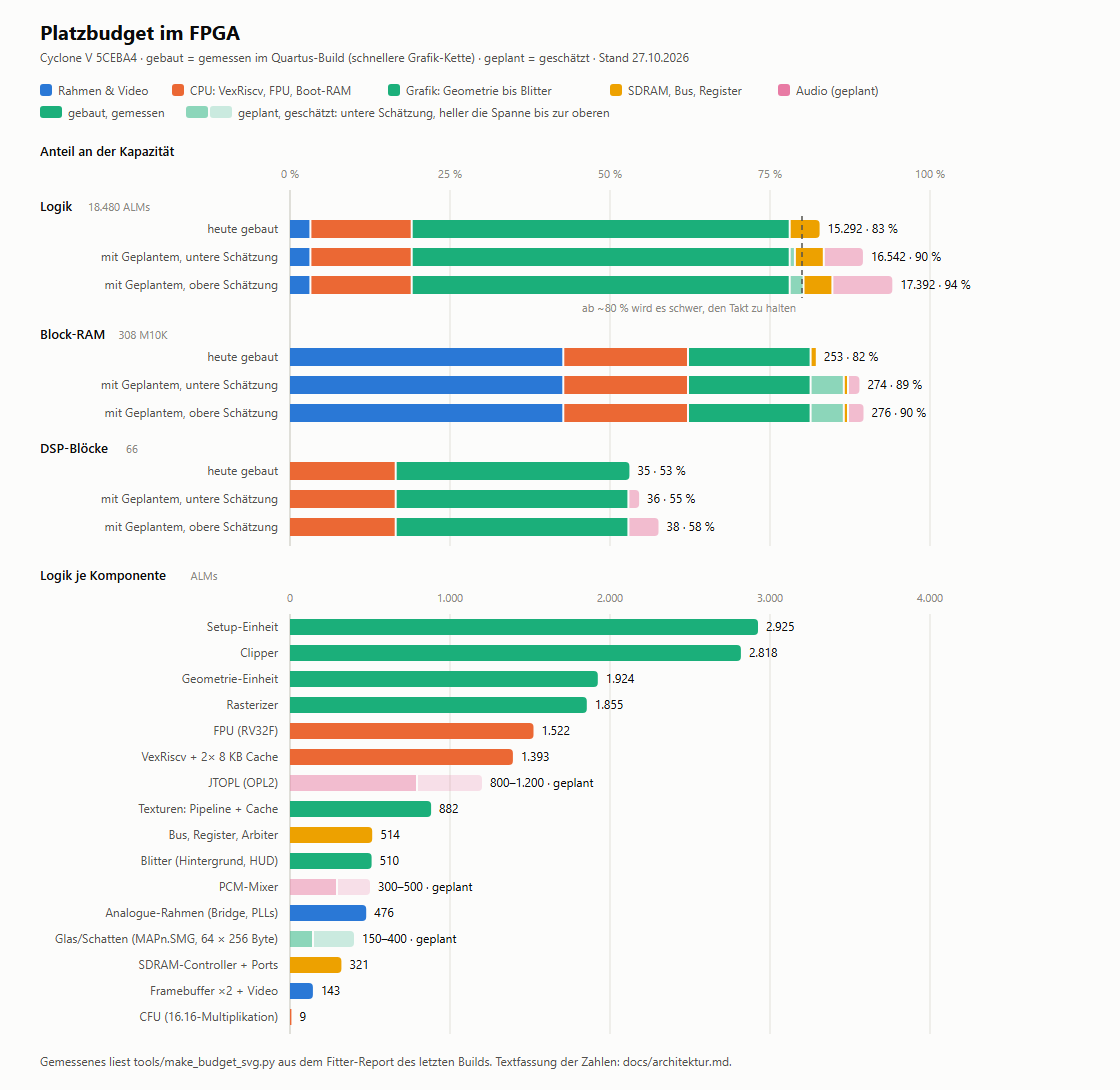
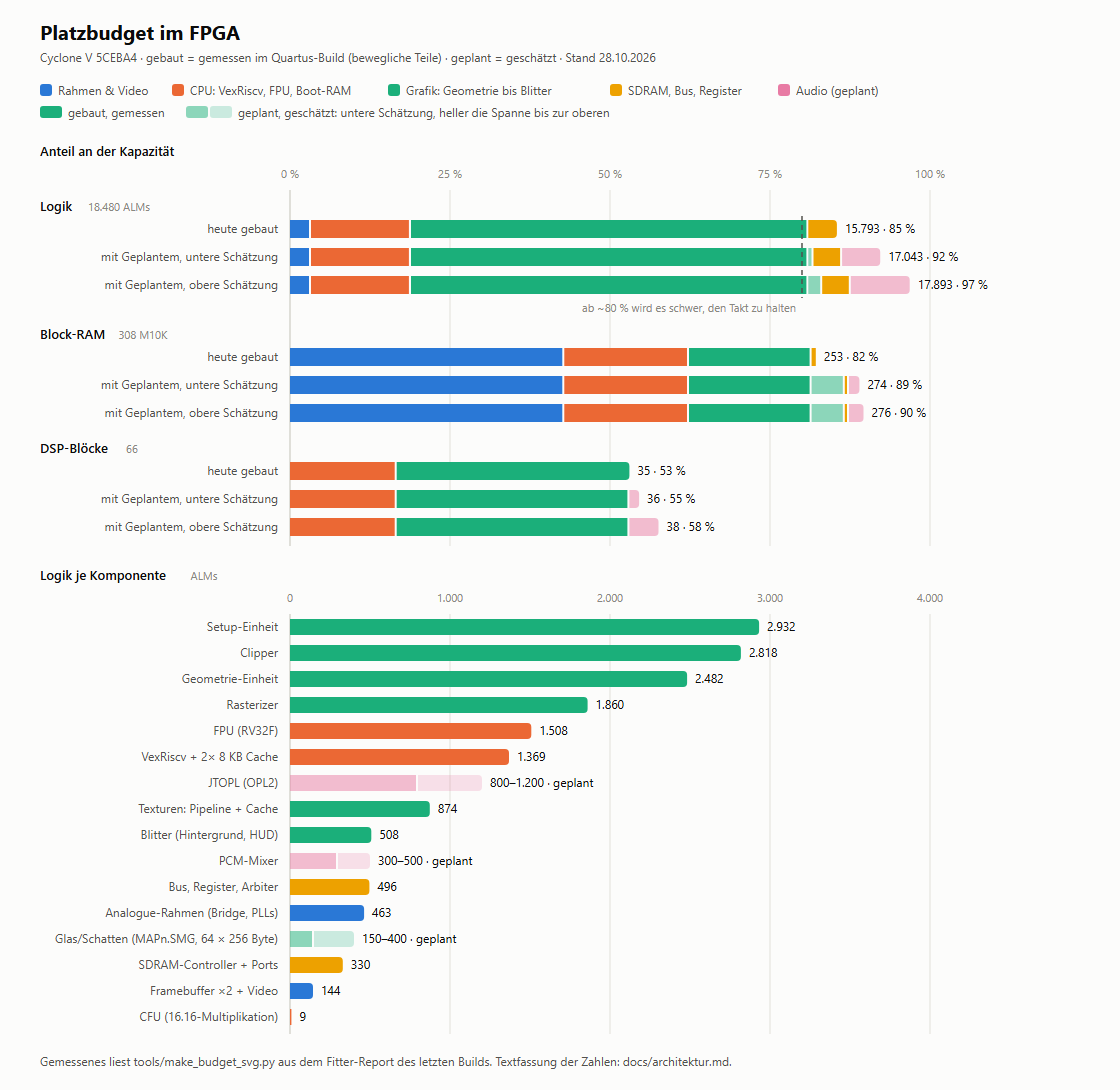
Moving parts: track 1's turning football helmet
A mesh can have several blocks; a block with a position record is moved
by it or, when the mesh has frames, turned by its frame (0x8ad14: 12
words, the block's whole matrix, frame = frames x clock >> 16). Track 1's
H set has one such mesh, V220 at the start: the base with the video wall
and the helmet turning on it (80 frames). The firmware gives each block
to the geometry unit as a piece of its own, the furthest first (0x8ac58).
The frames mirror the model (z up into y up), so for these blocks the
faces turned away are the others (0x8acf0): bit 3 of a piece's word 18.
The object floating top right at the start was the base drawn without
its frame's matrix.

The geometry unit's reads whose address comes from the value just read
wait a clock (steps 14, 15, 47, 49): the cache RAM's output through an
adder into its address register missed timing by 0.008 ns at 0 C.

diff --git a/firmware/track.c b/firmware/track.c
@@ -28,6 +28,7 @@
 #define BLOCK       0x40000     /* bytes per CRC block (tools/make_track.py) */
 #define MAX_PIECES  2048        /* placements; track 1 has 809 (L set), 1164 (H set) */
 #define MAX_OBJ     512         /* meshes; up to 360 on a track */
+#define MAX_BLOCKS  8           /* blocks of a mesh drawn (track 1: two, the football helmet's) */
 
 /* How far the game draws (openscreamer docs/NOTES.md, DETAIL): a piece only while its
    position is within 52000 units of the camera (0x83164: dist^2 >> 2 < 676000000), and
@@ -71,6 +72,8 @@ static const struct track_wall *walls;
 static int nwalls;
 static float anim;                      /* the animation clock, 0..1 */
 static uint32_t piece_phase;            /* the pieces' texture phase: the clock (record +0x20 is -1) */
+static uint32_t clock16;                /* the animation clock, 16 bits (0x21538) */
+static uint8_t multi[MAX_OBJ];          /* the mesh has several blocks or moving parts */
 static int16_t class_key[MAX_OBJ];      /* the key's change for each mesh's class (+0x32c) */
 
 /* What track_under() reads, made once from the drivable meshes: each mesh's faces of its
@@ -219,14 +222,36 @@ int track_init(void)
     }
 
     for(int k = 0; k < unr_count; k++) {
-        const uint8_t *obj, *blk = block_of(k, &obj), *v = obj + rd32(blk + 0x1C);
-        int n = rd32(blk + 0x10);
-        float r2 = 0.0f;
-        for(int i = 0; i < n && i < GU_MAX_VERT; i++, v += 6) {
-            float x = rd16(v), y = rd16(v + 2), z = rd16(v + 4), d = x * x + y * y + z * z;
-            if(d > r2) r2 = d;
+        const uint8_t *obj, *blk = block_of(k, &obj);
+        int nb = rd32(obj + 0x14), frames = rd32(obj + 0x10);
+        multi[k] = nb > 1 || frames > 0;
+        /* the reach round the origin: each block's vertices, and how far its place or frames
+           move it (mesh_reach) */
+        radius[k] = 0.0f;
+        for(int b = 0; b < (multi[k] ? nb : 1) && b < MAX_BLOCKS; b++) {
+            blk = obj + rd32(obj + 0x18 + 4 * b);
+            const uint8_t *v = obj + rd32(blk + 0x1C);
+            int n = rd32(blk + 0x10);
+            int32_t so = rd32(blk + 0x0C);
+            float r2 = 0.0f, t2 = 0.0f;
+            for(int i = 0; i < n && i < GU_MAX_VERT; i++, v += 6) {
+                float x = rd16(v), y = rd16(v + 2), z = rd16(v + 4), d = x * x + y * y + z * z;
+                if(d > r2) r2 = d;
+            }
+            if(multi[k] && so > 0)
+                for(int fr = 0; fr < (frames > 0 ? frames : 1); fr++) {
+                    float tx, ty, tz;
+                    if(frames > 0) {
+                        const uint8_t *q = obj + so + 0x1C + 0x30 * fr;
+                        tx = rd16(q + 18); ty = rd16(q + 20); tz = rd16(q + 22);
+                    } else {
+                        tx = (float)rd32(obj + so + 0x10); ty = (float)rd32(obj + so + 0x14); tz = (float)rd32(obj + so + 0x18);
+                    }
+                    if(tx * tx + ty * ty + tz * tz > t2) t2 = tx * tx + ty * ty + tz * tz;
+                }
+            float rb = __builtin_sqrtf(r2) + __builtin_sqrtf(t2);
+            if(rb > radius[k]) radius[k] = rb;
         }
-        radius[k] = __builtin_sqrtf(r2);
         int32_t cl = rd32(obj + 0x32C);                 /* 0x8a8d7 */
         class_key[k] = cl == 3 ? -6000 : cl == 1 ? -1500 : cl == 2 ? -800 : cl == 4 ? -200 : 0;
     }
@@ -304,7 +329,8 @@ void track_clock(uint32_t steps)
 {
     anim += (float)steps * 0.02f * 0.3f;
     while(anim >= 1.0f) anim -= 1.0f;
-    piece_phase = (uint32_t)(anim * 65535.0f) & 0x3FFF;
+    clock16 = (uint32_t)(anim * 65535.0f);
+    piece_phase = clock16 & 0x3FFF;
 }
 
 int track_bonus_time(void)
@@ -535,6 +561,60 @@ static void block_piece(const float c[3], const float f[3], const float r[3], co
     g->row = ex >= 0.0f ? (ez >= 0.0f ? (ex < ez ? 0 : 1) : (ex > -ez ? 2 : 3))
                         : (ez < 0.0f ? (-ex < -ez ? 4 : 5) : (-ex > ez ? 6 : 7));
     for(int j = 0; j < 3; j++) g->e[j] = (int32_t)(e[j] * 256.0f);
+    g->mirror = 0;
+}
+
+/* A placement whose mesh has several blocks or moving parts (track 1's football helmet V220:
+   its base and the helmet turning on it): block by block, each turned by its frame (0x8ad14:
+   a frame's 12 words are the block's whole matrix, the vertex as stored a row multiplied into
+   it, 16383 = 1, then its place; frame = frames x clock >> 16, a turn of the clock in 3.33 s;
+   the frames turn z up into y up, a mirror) or else moved by its place (the position record),
+   the furthest block's middle first (0x8ac58). Returns the pieces in gs (MAX_BLOCKS). */
+static int multi_pieces(const float c[3], const float f[3], const float r[3], const float u[3],
+                        const struct piece *pc, struct gu_piece *gs)
+{
+    const uint8_t *obj = unr_blob + unr_off[pc->obj];
+    int nb = rd32(obj + 0x14), frames = rd32(obj + 0x10), n = 0, ord[MAX_BLOCKS];
+    float key[MAX_BLOCKS];
+    struct gu_piece tmp[MAX_BLOCKS];
+    float ca = sin2048((uint32_t)pc->t + 512), sa = sin2048((uint32_t)pc->t);
+    const float R[9] = { ca, 0.0f, -sa, sa, 0.0f, ca, 0.0f, 1.0f, 0.0f };   /* world from the piece's frame */
+    int fr = frames > 0 ? (int)(((uint32_t)frames * clock16) >> 16) : -1;
+    for(int b = 0; b < nb && b < MAX_BLOCKS; b++) {
+        const uint8_t *blk = obj + rd32(obj + 0x18 + 4 * b);
+        int32_t so = rd32(blk + 0x0C);
+        float F[9] = { 1.0f, 0.0f, 0.0f, 0.0f, 1.0f, 0.0f, 0.0f, 0.0f, 1.0f }, t[3] = { 0.0f, 0.0f, 0.0f };
+        int moving = so > 0 && fr >= 0;
+        if(moving) {                                /* rows x, up, z: the words down the columns */
+            const uint8_t *q = obj + so + 0x1C + 0x30 * fr;
+            for(int i = 0; i < 3; i++)
+                for(int j = 0; j < 3; j++) F[3 * i + j] = (float)rd16(q + 2 * (3 * j + i)) / 16383.0f;
+            for(int i = 0; i < 3; i++) t[i] = (float)rd16(q + 18 + 2 * i);
+        } else if(so > 0)
+            for(int i = 0; i < 3; i++) t[i] = (float)rd32(obj + so + 0x10 + 4 * i);
+        float m[9], o[3];
+        for(int i = 0; i < 3; i++) {
+            for(int j = 0; j < 3; j++) m[3 * i + j] = R[3 * i] * F[j] + R[3 * i + 1] * F[3 + j] + R[3 * i + 2] * F[6 + j];
+            o[i] = (i == 0 ? (float)pc->x : i == 1 ? (float)pc->y : (float)pc->h) +
+                   R[3 * i] * t[0] + R[3 * i + 1] * t[1] + R[3 * i + 2] * t[2];
+        }
+        struct gu_piece *g = &tmp[b];
+        block_piece(c, f, r, u, m, o, g);
+        g->obj = obj;
+        g->blk = blk;
+        g->phase = piece_phase;
+        g->mirror = moving;
+        float w[3];
+        for(int i = 0; i < 3; i++)
+            w[i] = o[i] + m[3 * i] * rd16(blk + 4) + m[3 * i + 1] * rd16(blk + 6) + m[3 * i + 2] * rd16(blk + 8) - c[i];
+        key[b] = -(w[0] * w[0] + w[1] * w[1] + w[2] * w[2]);
+        int i = b;
+        while(i > 0 && key[ord[i - 1]] > key[b]) { ord[i] = ord[i - 1]; i--; }
+        ord[i] = b;
+        n++;
+    }
+    for(int b = 0; b < n; b++) gs[b] = tmp[ord[b]];
+    return n;
 }
 
 /* The view from the point c along forward f, with right r and up u (unit vectors) */
@@ -632,8 +712,21 @@ static void draw(volatile uint8_t *fb, const struct rs_clip *clip, const struct 
             continue;
         }
         const struct piece *pc = &pieces[vis[n].i];
+        if(multi[pc->obj]) {
+            struct gu_piece gs[MAX_BLOCKS];
+            int nb = multi_pieces(c, f, r, u, pc, gs);
+            for(int b = 0; b < nb; b++) {
+                st->pieces++;
+                uint32_t t0 = now();
+                if(track_mode == TRACK_HW) track_hw_piece(&gs[b]);
+                else gu_draw(fb, clip, &view, mlb, &gs[b], &gst);
+                t_out += now() - t0;
+            }
+            continue;
+        }
         struct gu_piece g;
         g.phase = piece_phase;
+        g.mirror = 0;
         g.blk = block_of(pc->obj, &g.obj);
         float ca = sin2048((uint32_t)pc->t + 512), sa = sin2048((uint32_t)pc->t);
         float dx = pc->x - cx, dy = pc->y - cy, dh = pc->h - ch;

diff --git a/firmware/geom.h b/firmware/geom.h
@@ -25,6 +25,9 @@ struct gu_piece {
     int32_t t[3];                       /* the piece's origin in view space, 8 fraction bits */
     int32_t e[3];                       /* the eye in the piece's frame, 8 fraction bits */
     int row;                            /* the face row for the side the eye is on, 0..7 */
+    int mirror;                         /* a moving part's block: its frames turn the model's z up
+                                           into y up, a mirror, so the faces turned away are the
+                                           others (the game's 0x8acf0: jge for jl) */
     uint32_t phase;                     /* texture frame of n: n x phase >> 14 (14 bits) */
     const uint8_t *obj, *blk;           /* the mesh: object and its block */
 };

diff --git a/firmware/geom.c b/firmware/geom.c
@@ -46,7 +46,7 @@ uint32_t gu_draw(volatile uint8_t *fb, const struct rs_clip *clip, const struct 
         const uint8_t *c0 = verts + ru16(fc + 8);
         int64_t bx = ((int64_t)rd16(c0) << 8) - p->e[0], by = ((int64_t)rd16(c0 + 2) << 8) - p->e[1];
         int64_t bz = ((int64_t)rd16(c0 + 4) << 8) - p->e[2];
-        if(bx * rd16(fc + 0x14) + by * rd16(fc + 0x18) + bz * rd16(fc + 0x1C) < 0) continue;
+        if((bx * rd16(fc + 0x14) + by * rd16(fc + 0x18) + bz * rd16(fc + 0x1C) < 0) != (p->mirror != 0)) continue;
 
         /* the material */
         const uint8_t *mat = mlb + rd16(fc + 4);

diff --git a/firmware/main.c b/firmware/main.c
@@ -168,7 +168,7 @@ static void hw_piece(const struct gu_piece *g)
     for (int k = 0; k < 3; k++) GU_PUSH = (uint32_t)g->e[k];
     GU_PUSH = (uint32_t)((uintptr_t)g->obj - SDRAM_BASE);
     GU_PUSH = (uint32_t)((uintptr_t)g->blk - SDRAM_BASE);
-    GU_PUSH = (uint32_t)g->row | (g->phase & 0x3FFF) << 16;
+    GU_PUSH = (uint32_t)g->row | (uint32_t)(g->mirror != 0) << 3 | (g->phase & 0x3FFF) << 16;
     draw_wait += rdcycle() - t0;
 }
 

diff --git a/tools/make_budget_svg.py b/tools/make_budget_svg.py
@@ -64,8 +64,8 @@ PLANNED = [
     ("PCM-Mixer", "audio", (300, 500), (2, 2), (1, 2)),
 ]
 TIMING_LIMIT = 0.80         # logic utilisation above which timing closure gets hard
-STAND = "27.10.2026"
-BUILD = "schnellere Grafik-Kette"
+STAND = "28.10.2026"
+BUILD = "bewegliche Teile"
 
 # layout
 WIDTH = 1120

diff --git a/firmware/texdemo.c b/firmware/texdemo.c
@@ -199,6 +199,7 @@ static uint32_t draw_mesh(volatile uint8_t *fb, const struct rs_clip *clip, floa
         g.e[c] = (int32_t)((cam - p) * 65536.0f);
     }
     g.row = 0;
+    g.mirror = 0;
     g.phase = 0;
     g.obj = mesh_obj;
     g.blk = mesh_blk;

diff --git a/docs/architektur.md b/docs/architektur.md
@@ -1,14 +1,14 @@
 # Architektur
 
-Stand: 2026-10-27. Gebaut und auf dem Pocket getestet: Video-Ausgabe 320×200 aus zwei
+Stand: 2026-10-28. Gebaut und auf dem Pocket getestet: Video-Ausgabe 320×200 aus zwei
 8-Bit-Framebuffern im Block-RAM, je mit eigener Palette, getauscht in der Austastlücke; die
 CPU (VexRiscv RV32IMF mit FPU und CFU, `docs/soc.md`); Geometrie-Einheit, Clipper,
 Setup-Einheit und Rasterizer mit vorausladendem Textur-Cache; Strecke 1 mit dem Auto des
 Spielers, fahrbar, mit dem HUD aus dem Blitter, der Füllregel des Originals (keine Lücken
 an Fugen), dem Hintergrundbild `MAPn.BCK`, neun Gegnern (Startaufstellung, ihre Linien,
-Platzierung) und der schnelleren Grafik-Kette (50 fps auch am Start mit allen zehn Autos).
-Gebaut, Test auf dem Pocket steht aus: Berührungen zwischen den Autos, Überholen, Crash
-eines Gegners. Belegung siehe
+Platzierung, Berührungen, Überholen, Crash eines Gegners) und der schnelleren Grafik-Kette
+(50 fps auch am Start mit allen zehn Autos). Gebaut, Test auf dem Pocket steht aus:
+bewegliche Teile der Strecke (der drehende Football-Helm am Start). Belegung siehe
 „Belegung“; geschätzt ist nur noch, was fehlt (Audio, Glas/Schatten).
 
 ## Hardware des Pocket (Haupt-FPGA)
@@ -71,13 +71,17 @@ braucht. 33 Dateien, eine mehr als die 32 Slots: offen, z. B. zwei Dateien in ei
 
 ## Belegung
 
-Gemessen am 2026-10-28 (Quartus-Build mit der schnelleren Grafik-Kette, Timing hält bei
-74,25 MHz: Setup +0,25 ns, Hold +0,05 ns; die knappsten Pfade liegen im SDRAM-Controller vor
-den Adress-Pins): 15.292 von 18.480 ALMs (83 %), 253 von 308 M10K (82 %), 35 von 66 DSP
-(53 %). Von Build zu Build schwankt die Logik um einige hundert
-ALMs (die Platzierung packt verschieden dicht). Geschätzt ist nur, was noch fehlt.
+Gemessen am 2026-10-28 (Quartus-Build mit den beweglichen Teilen, Timing hält bei
+74,25 MHz: Setup +0,65 ns, Hold +0,05 ns): 15.793 von 18.480 ALMs (85 %), 253 von 308 M10K
+(82 %), 35 von 66 DSP (53 %). Von Build zu Build schwankt die Logik um einige hundert ALMs:
+Die Platzierung packt verschieden dicht, und wo das Timing knapp ist, baut der Fitter Logik
+und Register um (Physical Synthesis). So wuchs die Geometrie-Einheit mit den beweglichen
+Teilen von 1.924 auf 2.482 ALMs, obwohl nur vier Schritte und ein Bit dazukamen: Nach der
+Synthese hat sie 3.310 ALUTs und 2.536 Register, nach dem Fitter 4.310 und 2.760 (der
+vorige Build war an ihrem Cache-Pfad um 0,008 ns zu langsam). Geschätzt ist nur, was noch
+fehlt.
 
-![Platzbudget im FPGA: Logik heute 83 %, mit Geplantem 90–94 %; Block-RAM heute 82 %, mit Geplantem 89–90 %; DSP heute 53 %, mit Geplantem 55–58 %](ressourcen.svg)
+![Platzbudget im FPGA: Logik heute 85 %, mit Geplantem 92–97 %; Block-RAM heute 82 %, mit Geplantem 89–90 %; DSP heute 53 %, mit Geplantem 55–58 %](ressourcen.svg)
 
 Die Grafik erzeugt `tools/make_budget_svg.py`: die gemessenen Zeilen aus dem Fitter-Report
 (`core/src/fpga/output_files/ap_core.fit.rpt`, Tabelle „Resource Utilization by Entity“), die
@@ -86,30 +90,30 @@ nachziehen.
 
 | Komponente | ALMs | M10K | DSP |
 |---|---|---|---|
-| Analogue-Rahmen (Bridge, PLLs, Pads) | 476 | 2 | 0 |
-| Framebuffer ×2 + Video | 143 | 130 | 0 |
-| VexRiscv + 2× 8 KB Cache | 1.393 | 19 | 4 |
-| FPU (RV32F) | 1.522 | 5 | 4 |
+| Analogue-Rahmen (Bridge, PLLs, Pads) | 463 | 2 | 0 |
+| Framebuffer ×2 + Video | 144 | 130 | 0 |
+| VexRiscv + 2× 8 KB Cache | 1.369 | 19 | 4 |
+| FPU (RV32F) | 1.508 | 5 | 4 |
 | CFU (16.16-Multiplikation) | 9 | – | 3 |
 | Boot-RAM 32 KB + Protokoll | – | 36 | – |
-| Geometrie-Einheit | 1.924 | 17 | 7 |
+| Geometrie-Einheit | 2.482 | 17 | 7 |
 | Clipper | 2.818 | 6 | 2 |
-| Setup-Einheit | 2.925 | 4 | 4 |
-| Rasterizer | 1.855 | – | 7 |
-| Texturen: Pipeline + Cache | 882 | 30 | 4 |
-| Blitter (Hintergrund, HUD) | 510 | 2 | – |
-| SDRAM-Controller + Ports | 321 | 2 | – |
-| Bus, Register, Arbiter | 514 | – | – |
-| **gebaut** | **15.292 (83 %)** | **253 (82 %)** | **35 (53 %)** |
+| Setup-Einheit | 2.932 | 4 | 4 |
+| Rasterizer | 1.860 | – | 7 |
+| Texturen: Pipeline + Cache | 874 | 30 | 4 |
+| Blitter (Hintergrund, HUD) | 508 | 2 | – |
+| SDRAM-Controller + Ports | 330 | 2 | – |
+| Bus, Register, Arbiter | 496 | – | – |
+| **gebaut** | **15.793 (85 %)** | **253 (82 %)** | **35 (53 %)** |
 | geplant: Glas/Schatten (`MAPn.SMG`, 64 × 256 Byte) | 150–400 | 16 | – |
 | geplant: JTOPL (OPL2) | 800–1.200 | 3–5 | 0–1 |
 | geplant: PCM-Mixer | 300–500 | 2 | 1–2 |
-| **mit Geplantem** | **16.542–17.392 (90–94 %)** | **274–276 (89–90 %)** | **36–38 (55–58 %)** |
+| **mit Geplantem** | **17.043–17.893 (92–97 %)** | **274–276 (89–90 %)** | **36–38 (55–58 %)** |
 
 Knapp wird die Logik: ab etwa 80 % Belegung wird es auf dem Cyclone V schwer, die
 Taktfrequenz zu halten. Das zeigt sich beim Bauen (Timing-Analyse, `tools/build.sh` meldet es
 und probiert weitere Fitter-Seeds), nicht als Instabilität auf dem Pocket, solange das Timing
-hält. Die größten Posten sind Setup-Einheit und Clipper (zusammen 5.743 ALMs): je nur ein
+hält. Die größten Posten sind Setup-Einheit und Clipper (zusammen 5.750 ALMs): je nur ein
 Multiplizierer und eine Kehrwerttabelle, aber breite Register (eine Ecke 144 Bit, der Clipper
 nimmt vier auf einmal) und Auswahlschaltungen vor dem Multiplizierer. Dort ist am meisten zu
 holen, falls Audio nicht mehr passt. Einen Tiefenpuffer gibt es nicht, siehe „Entschieden“.
@@ -285,6 +289,19 @@ Die FPU macht Float-Rechnungen 13–32 × schneller als Soft-Float.
   Fahrbahn gedrängt wird, steht sofort (`0x1cb9c`); verliert er in einem Schritt mehr als 5000
   Einheiten/s, crasht er (`0x1d824`): je nach Stelle überschlägt er sich wie der Spieler oder
   dreht sich zweimal auf der Fahrbahn. Der Versatz aus Stößen klingt nach 3 s ab.
+- **Bewegliche Teile der Strecke** (2026-10-28, aus der EXE: `0x8ad14`, `0x8acf0`, `0x8ac58`;
+  das Format nach OpenScreamers Notes S2-5b, das für beide Spiele gilt): Ein Mesh kann
+  mehrere Blöcke haben, und ein Block mit Positionssatz (+0x0C) wird von dort verschoben oder,
+  wenn das Mesh Bilder hat (+0x10), je Bild gedreht: 12 Wörter je Bild sind seine ganze Matrix
+  (die gespeicherte Ecke als Zeile mal Matrix, 16383 = 1, dann der Versatz), das Bild ist
+  Bilder × Uhr >> 16, eine Umdrehung der Animationsuhr in 3,33 s. Auf Strecke 1 hat nur der
+  `H`-Satz so ein Mesh, `V220` am Start: den Sockel mit der Videowand (Block 0, ein festes
+  Bild) und den Helm darauf (Block 1, 80 Bilder). Die Firmware zerlegt ein solches Teil in
+  einen Auftrag je Block, den fernsten Mittelpunkt zuerst (`0x8ac58`). Die Bilder machen aus
+  z oben y oben, eine Spiegelung; das Spiel nimmt für solche Blöcke die andere Seite als
+  Rückseite (`0x8acf0`: `jge` statt `jl`), die Geometrie-Einheit ebenso (Bit 3 im Wort 18
+  eines Auftrags, `docs/soc.md`). Das Objekt, das am Start rechts oben schwebte, war der
+  Sockel ohne die Matrix seines Bildes, gekippt und zu hoch; den Helm gab es gar nicht.
 - **Das Hintergrundbild wie im Original** (2026-10-27, aus der EXE): Das Rennen zeichnet
   vor der Szene `MAPn.BCK` (ein PCX, 512 × 256) mit `0x83a68`: eine reine Kopie, die Spalte
   `(2047 − Kurs) / 2 mod 512` am linken Rand (zweimal um das Bild je Umdrehung), die oberste

diff --git a/docs/soc.md b/docs/soc.md
@@ -104,7 +104,7 @@ Alle Register sind 32 Bit, Zugriff als Wort.
 | `0xF000_314C` | `GU_GO` | W | Bit 2..0 die Flächenliste für die Seite des Auges, startet das Bauteil. Wartet, solange die Einheit am vorigen arbeitet; die Register davor dürfen schon für das nächste geschrieben werden. Die Einheit liest das Mesh selbst (4-KB-Lese-Cache, Zeilen über den Port des Rasterizers), rechnet die Eckpunkte um, lässt Rückseiten und Material 224 weg und gibt jede Fläche an die Setup-Einheit; Ecken der CPU an die Setup-Einheit warten, bis sie fertig ist |
 | `0xF000_3150`, `3154` | `GU_FACES`, `GU_CLOCKS` | R/W | weitergegebene Flächen, Takte beschäftigt; Schreiben löscht |
 | `0xF000_3158` | `GU_INVAL` | W | den Lese-Cache leeren (nachdem sich Mesh-Daten geändert haben) |
-| `0xF000_315C` | `GU_PUSH` | W | Geometrie-Einheit (`geom.v`, bitgenau `firmware/geom.c`): das nächste Wort eines Bauteils in ihren Puffer (2048 Wörter, 113 Bauteile); wartet nur, wenn er voll ist. Ein Bauteil sind 18 Wörter: lokal nach Kamerasicht (Zeilen r, u, f der Spalten x, y, z, 16 Nachkommabits, innerhalb ±2^17), Ursprung in Kamerasicht und Auge im Rahmen des Bauteils (je 8 Nachkommabits), SDRAM-Byte-Adressen von Mesh-Objekt und Block, Bit 2..0 die Flächenliste für die Seite des Auges und Bit 29..16 die Texturphase (von n Bildern einer Textur, Texturdatensatz +0, wird Bild n × Phase >> 14 gezeichnet, wie im Spiel: Streckentexturen nach der Animationsuhr, beim Auto Lackierung, Bremslicht und Radbild). Die Einheit nimmt ein Bauteil, sobald es ganz im Puffer liegt, liest das Mesh selbst (4-KB-Lese-Cache, Zeilen über den Port des Rasterizers), rechnet die Eckpunkte um, lässt Rückseiten und Material 224 weg und gibt jede Fläche an die Setup-Einheit; Ecken der CPU an die Setup-Einheit warten, bis sie fertig ist |
+| `0xF000_315C` | `GU_PUSH` | W | Geometrie-Einheit (`geom.v`, bitgenau `firmware/geom.c`): das nächste Wort eines Bauteils in ihren Puffer (2048 Wörter, 113 Bauteile); wartet nur, wenn er voll ist. Ein Bauteil sind 18 Wörter: lokal nach Kamerasicht (Zeilen r, u, f der Spalten x, y, z, 16 Nachkommabits, innerhalb ±2^17), Ursprung in Kamerasicht und Auge im Rahmen des Bauteils (je 8 Nachkommabits), SDRAM-Byte-Adressen von Mesh-Objekt und Block, Bit 2..0 die Flächenliste für die Seite des Auges, Bit 3 ein Block eines beweglichen Teils (seine Bilder spiegeln ihn, die Rückseiten sind die anderen, wie im Spiel bei `0x8acf0`) und Bit 29..16 die Texturphase (von n Bildern einer Textur, Texturdatensatz +0, wird Bild n × Phase >> 14 gezeichnet, wie im Spiel: Streckentexturen nach der Animationsuhr, beim Auto Lackierung, Bremslicht und Radbild). Die Einheit nimmt ein Bauteil, sobald es ganz im Puffer liegt, liest das Mesh selbst (4-KB-Lese-Cache, Zeilen über den Port des Rasterizers), rechnet die Eckpunkte um, lässt Rückseiten und Material 224 weg und gibt jede Fläche an die Setup-Einheit; Ecken der CPU an die Setup-Einheit warten, bis sie fertig ist |
 | `0xF000_3180` | `BL_PUSH` | W | Blitter (`blit.v`, bitgenau `firmware/blit.c`): das nächste Wort eines Befehls in seinen Puffer (512 Wörter, 128 Befehle); wartet nur, wenn er voll ist. Ein Befehl sind 4 Wörter: Wort 0 die SDRAM-Byte-Adresse des ersten Quellpixels (Linie: Bit 9..0 x, 25..16 y ihres Endes), Wort 1 Bit 9..0 x, 25..16 y des ersten Pixels bzw. Linienanfangs (mit Vorzeichen), 29..28 die Art (0 Kopie, 1 Schrift, 2 Linie, 3 Füllen), 30 der Puffer, 31 bei Kopien deckend; Wort 2 Breite und Höhe (Linie: Clip links, oben), Wort 3 Bit 9..0 Bytes von Zeile zu Zeile (Linie: Bit 8..0 und 24..16 Clip rechts, unten, ausschließlich), 31..24 die Farbe. Kopie: das Byte, 0 durchsichtig (deckend: auch 0); Schrift: Schattierung 1..15 als Farbe × 16 + Schattierung; Linie: Bresenham, die Pixel im Clip; Füllen: das Rechteck in der Farbe. Kopien, Schrift und Füllen werden auf den Bildschirm beschnitten. Der Blitter beginnt einen Befehl nur, solange Geometrie-Einheit, Setup-Einheit und Rasterizer stillstehen: den Hintergrund vor der Szene (die Firmware hält das erste Bauteil zurück, bis er fertig ist), die Rennanzeige danach. Kopie und Schrift ein Pixel pro Takt, die Quelle zeilenweise über den gemeinsamen Zeilen-Port; Füllen ein Wort (vier Pixel) pro Takt |
 | `0xF000_3184` | `BL_CLOCKS` | R/W | Takte, in denen der Blitter gearbeitet hat; Schreiben löscht |
 
